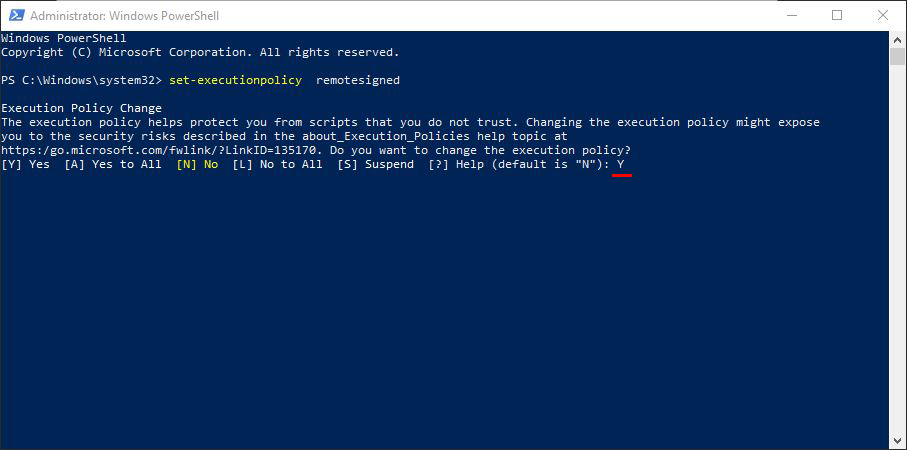
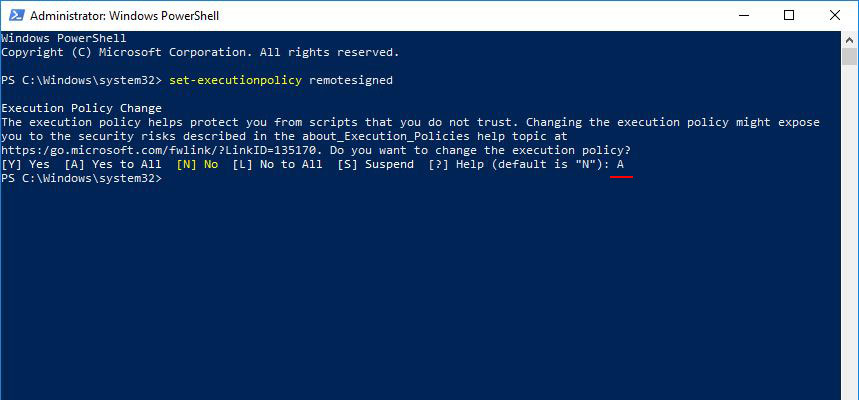
(feat): update the solution to running scripts is disabled article

Changed region(s): [[0.0, 0.0, 1.0, 1.0]]

diff --git a/_posts/2019-08-22-solution-to-running-scripts-is-disabled-on-this-system-error-on-powershell.md b/_posts/2019-08-22-solution-to-running-scripts-is-disabled-on-this-system-error-on-powershell.md
@@ -11,51 +11,56 @@ tags:
   - powershell
   - windows
   - python
-title: Solution to "Running Scripts Is Disabled On This System" Error On Powershell
+title: Solution to "Running Scripts Is Disabled On This System" Error On PowerShell
+last_modified_at: 2021-09-04
 ---
 
-I run into this error **"running scripts is disabled on this system"** as I was trying to activate Python's virtualenv on Powershell.
+I run into this error **"running scripts is disabled on this system"** as I was trying to activate the **virtual environment** on PowerShell.
 
-![running scripts disabled](/assets/images/posts/2019-08-25-running-scripts-is-disabled-on-this-system-powershell/error.jpg)
+![running scripts disabled](/assets/images/posts/2019-08-25-running-scripts-is-disabled-on-this-system-powershell/powershell-error.jpg)
 
-This error happens because the `venv\Scripts\activate` command tries to run the `Activate.ps1` Powershell script to activate the virtual environment.
+This error happens because the `venv\Scripts\activate` command tries to run the `Activate.ps1` PowerShell script to activate the virtual environment on your system.
 
-**Note**: _.ps1_ is an extension for powershell scripts.
+**Note**: _.ps1_ is an extension for PowerShell scripts.
 {: .notice--info}
 
-It turns out on my Windows 10 system, the **Execution Policy** is set to **restricted** by default. This means that Powershell cannot execute any script.
+It turns out on my Windows 10 system, the [**Execution Policy**](https://docs.microsoft.com/en-us/powershell/module/microsoft.powershell.core/about/about_execution_policies?view=powershell-7.1) is set to `restricted` by default. This means that PowerShell cannot execute any script.
 
 ![get execution policy](/assets/images/posts/2019-08-25-running-scripts-is-disabled-on-this-system-powershell/get-execution-policy.jpg)
 
-Here is how I fixed the error:
+The following steps show you how to fix the error.
 
-**Step 1**: **Open Windows Powershell as Admin**
+## Open  Windows PowerShell as Admin
 
-Open the **Start menu** on Windows and search for **powershell** and right-click on it. Click on **"run as administrator"**.
+Open the **Start Menu** on Windows and search for **powershell** and right-click on it. Click on **"run as administrator"**.
 
-**Note**: You don't need to close the Powershell window where you got the error.
+**Note**: You don't need to close the PowerShell window where you got the error.
 {: .notice--warning}
 
 ![get execution policy](/assets/images/posts/2019-08-25-running-scripts-is-disabled-on-this-system-powershell/powershell-admin.jpg)
 
-**Step 2**: Type the following command the new Powershell window:
+## Allow Windows PowerShell to Execute Scripts
+
+To fix the error, you need to change the PowerShell execution policy to `remotesigned`. This will allow you to run scripts that are on your local computer unsigned,  and also remote scripts(from the internet) which have been signed.
+
+Type the following command in the PowerShell admin window to change the execution policy:
 
 ```
 > set-executionpolicy remotesigned
 ```
 
-This command will allow you to run scripts that are on your local computer(unsigned) and remote scripts(from the internet) which have been signed.
-
-**Step 3**: You will be prompted to run accept the change, type **Y**(Yes) and press **enter** on your keyboard to allow the change.
+You will be prompted to accept the change, type `A`(Yes to all), and press **ENTER** on your keyboard to allow the change.
 
 ![execution policy change](/assets/images/posts/2019-08-25-running-scripts-is-disabled-on-this-system-powershell/execution-policy-change.jpg)
 
-**Step 4**: Close the Powershell admin window, and then go back to the Powershell Window(where you got the error) and **run the command again**.
+
+Close the PowerShell admin window, and go back to the PowerShell Window where you got the error. Run the command that triggered the error again. Mine was `venv\Scripts\activate`.
+
+If you look at the following screenshot, you will see that am not getting the error anymore and the virtual environment has been activated:
 
 ![virtualenv works](/assets/images/posts/2019-08-25-running-scripts-is-disabled-on-this-system-powershell/virtualenv-works.jpg)
 
-The command has worked! virtualenv has been activated.
+I hope your error has been fixed too. Let me know in the comments if you have any questions. Thank you for reading.
 
-```
-(venv) PS C:\Users\Stanley\django_project>
-```
+
+

diff --git a/_posts/2019-08-31-how-to-install-django-on-windows.md b/_posts/2019-08-31-how-to-install-django-on-windows.md
@@ -231,7 +231,7 @@ You've now installed Django on your system, great job! You'll begin to create a 
 
 ## Step 8 - Creating the Django Project
 
-Now it's time to create a project. A project has a different meaning from what you may be used to. The Django documentation defines it as:
+Now it's time to create a project. A project has a different meaning from what you may be used to. The [Django documentation](https://docs.djangoproject.com/en/3.2/glossary/#term-project) defines it as:
 
 >
 A Python package – i.e. a directory of code – that contains all the settings for an instance of Django. This would include database configuration, Django-specific options and application-specific settings.
